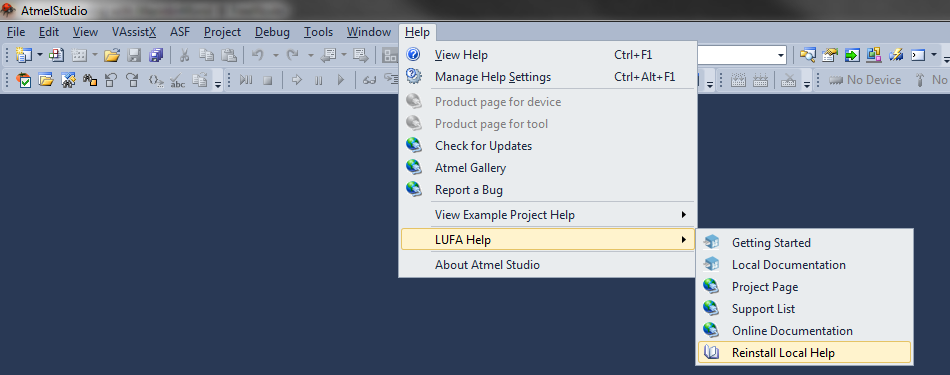
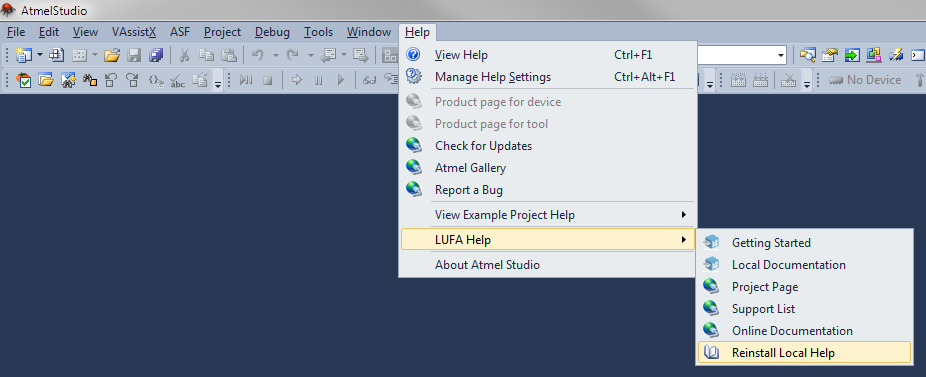
Add drop shadow effect to Getting Started images, and use higher quality figures.

Changed region(s): [[0.0, 0.0, 1.0, 0.9973]]

diff --git a/LUFA/Source/GettingStarted.xaml b/LUFA/Source/GettingStarted.xaml
@@ -24,6 +24,11 @@
 
         <Style x:Key="SectionImage" TargetType="Image">
             <Setter Property="Margin" Value="20,0,20,0" />
+            <Setter Property="Effect">
+                <Setter.Value>
+                    <DropShadowEffect Opacity="0.5"/>
+                </Setter.Value>
+            </Setter>
         </Style>
     </UserControl.Resources>
     
@@ -46,7 +51,7 @@
                         wizard from the <Run FontFamily="Consolas">File→New</Run> menu. Expand out the <Run FontStyle="Italic">FourWalledCubicle</Run> node, then
                         the <Run FontStyle="Italic">Dean Camera - LUFA</Run> node to see a list of LUFA projects.
                         </TextBlock>
-                        <Image DockPanel.Dock="Top" Style="{StaticResource SectionImage}" Stretch="UniformToFill" MaxWidth="950">
+                        <Image DockPanel.Dock="Top" Style="{StaticResource SectionImage}">
                             <Image.Source>
                                 <BitmapImage UriSource="/LUFA;component/Resources/NewExampleWizard.png"/>
                             </Image.Source>
@@ -62,7 +67,7 @@
                             solution, then choose the LUFA library as the extension to configure from the <Run FontStyle="Italic">Available Modules</Run> portion of the
                             wizard. Here you can add and remove LUFA modules toand from your project as you need them.
                         </TextBlock>
-                        <Image DockPanel.Dock="Top" Style="{StaticResource SectionImage}" Stretch="UniformToFill" MaxWidth="825">
+                        <Image DockPanel.Dock="Top" Style="{StaticResource SectionImage}" Stretch="None">
                             <Image.Source>
                                 <BitmapImage UriSource="/LUFA;component/Resources/ASFWizard.png"/>
                             </Image.Source>
@@ -77,7 +82,7 @@
                             <Run FontFamily="Consolas">ASF→ASF</Run> Explorer menu. Here you can find a link to the module's corresponding API documentation in the LUFA
                             manual, as well as a direct link to the module's API header.
                         </TextBlock>
-                        <Image DockPanel.Dock="Top" Style="{StaticResource SectionImage}" Stretch="UniformToFill" MaxWidth="296">
+                        <Image DockPanel.Dock="Top" Style="{StaticResource SectionImage}" Stretch="None">
                             <Image.Source>
                                 <BitmapImage UriSource="/LUFA;component/Resources/ASFExplorer.png"/>
                             </Image.Source>
@@ -94,7 +99,7 @@
                             fails to install, you can <Hyperlink Click="ReinstallIntHelp_Click">re-try</Hyperlink> from the
                             <Run FontFamily="Consolas">Help→LUFA Help→Reinstall Local Help</Run> menu entry.
                         </TextBlock>
-                        <Image DockPanel.Dock="Top" Style="{StaticResource SectionImage}" Stretch="Uniform" MaxHeight="300">
+                        <Image DockPanel.Dock="Top" Style="{StaticResource SectionImage}" Stretch="UniformToFill">
                             <Image.Source>
                                 <BitmapImage UriSource="/LUFA;component/Resources/LUFAHelpMenu.png"/>
                             </Image.Source>
